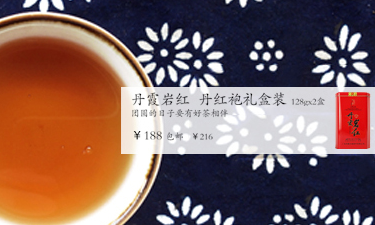
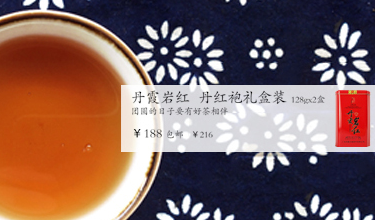
样式

diff --git a/YiKangWeb/WebContent/theme/front/default/style/default.css b/YiKangWeb/WebContent/theme/front/default/style/default.css
@@ -790,7 +790,7 @@
 .one .one_title .ti2 {
 	color: #666666;
 	font-size: 14px;
-	width: 593px;
+	width: 495px;
 	margin-left: auto;
 }
 .one .one_title .ti2 li {
@@ -1023,7 +1023,7 @@
 .four_title .ti4 {
 	color: #666666;
 	font-size: 14px;
-	width: 350px;
+	width: 260px;
 	margin-left: auto;
 }
 .four_title .ti4 li {
@@ -1098,7 +1098,7 @@
 	color: #666666;
 	font-size: 14px;
 }
-.one_b_l_r_b2    .dl3 {
+.one_b_l_r_b2 .dl3 {
 	float: left;
 	overflow: hidden;
 	width: 102px;
@@ -1118,12 +1118,10 @@
 }
 .one_b_l_r_b2  .dl3  dd  a {
 	color: #666666;
-	font-size: 14px;
 
 }
 .one_b_l_r_b2  .dl3  dd  a:hover {
 	color: #336600;
-	font-size: 14px;
 	text-decoration: underline;
 }
 .four_r .one_b_r_b {
@@ -1305,8 +1303,11 @@
 	padding: 20px;
 	margin-right: 5px;
 	margin-left: 5px;
-	background-color: #f8f8f8;
 	text-align: center;
+	border-top-width: 1px;
+	border-top-style: solid;
+	border-top-color: #CCCCCC;
+	margin-top: 15px;
 }
 .bot .p {
 	text-align: center;

diff --git a/YiKangWeb/WebContent/theme/front/default/style/master.css b/YiKangWeb/WebContent/theme/front/default/style/master.css
@@ -70,6 +70,7 @@ li {display: list-item;text-align: -webkit-match-parent;}
 .pl_10{ padding-left:10px;}
 .pr_10{ padding-right:10px;}
 .pt_10{ padding-top:10px;}
+.pt_15{ padding-top:15px;}
 .f15{font-size: 15px;}
 .f14{font-size: 14px;}
 .f18{font-size: 18px;}
